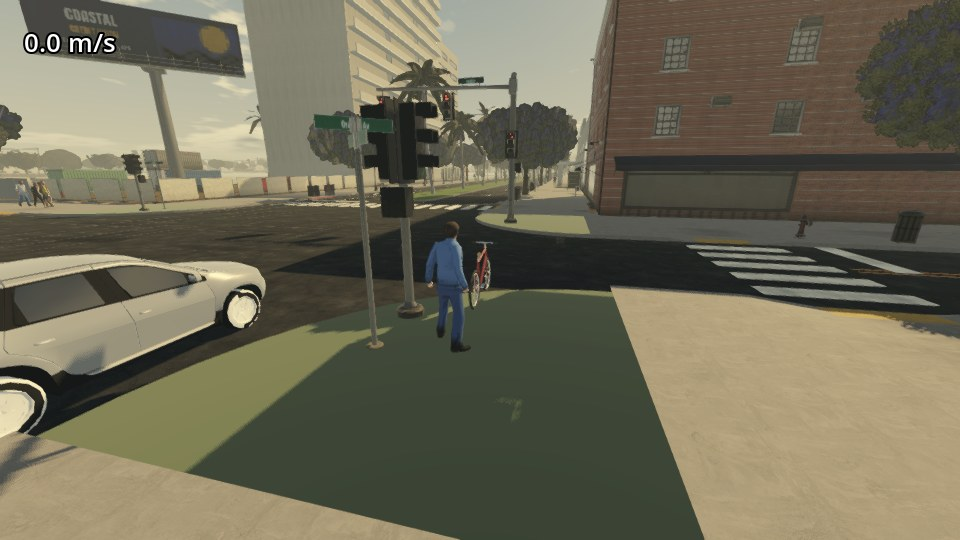
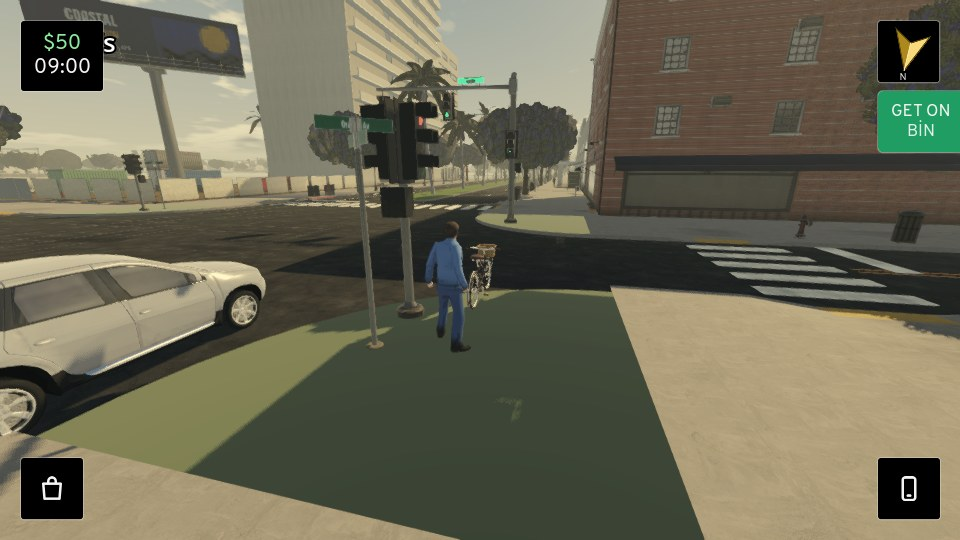
The Use button, C++, and the recheck of every ticked item (Yasin: "check for all your job lists completed items one by one"; "make the use button as big as phone and map boxes, vibrates and makes sound when used but doesnt expand like the other buttons"). THE RECHECK (20 Nov, every test in a window)

diff --git a/native/src/city_hud.cpp b/native/src/city_hud.cpp
@@ -5,6 +5,11 @@
 #include "city_player.h"
 #include "city_crowd.h"
 #include "city_traffic.h"
+#include "city_car.h"
+#include "city_bike.h"
+#include "car_models.h"
+
+#include <godot_cpp/classes/scene_tree.hpp>
 
 #include <godot_cpp/classes/input_event_mouse_motion.hpp>
 #include <godot_cpp/classes/input_event_screen_drag.hpp>
@@ -258,6 +263,7 @@ Rect2 CityHud::box_rect(int p_what) const {
 		case 0: return Rect2(sz.x - m - b, m, b, b);          // the arrow: top right
 		case 1: return Rect2(sz.x - m - b, sz.y - m - b, b, b);   // the phone: bottom right
 		case 2: return Rect2(m, sz.y - m - b, b, b);          // the inventory: bottom left
+		case 4: return Rect2(sz.x - m - b, m + b + 8.0f * k, b, b);   // the Use button: under the arrow box
 		default: return Rect2(m, m, b, b);                    // money and the clock: top left
 	}
 }
@@ -298,6 +304,14 @@ void CityHud::build() {
 	arrow = memnew(HudArrow); arrow->set_mouse_filter(Control::MOUSE_FILTER_IGNORE); add_child(arrow);   // (over the box, exactly its rectangle)
 	b_inv = box("plate");
 	{ TextureRect *ic = plate::icon_rect("buy", 36); ic->set_mouse_filter(Control::MOUSE_FILTER_IGNORE); ic->set_stretch_mode(TextureRect::STRETCH_KEEP_ASPECT_CENTERED); b_inv->add_child(ic); }
+	b_use = box("green");
+	{
+		VBoxContainer *v = memnew(VBoxContainer); v->set_alignment(BoxContainer::ALIGNMENT_CENTER); v->add_theme_constant_override("separation", -3); v->set_mouse_filter(Control::MOUSE_FILTER_IGNORE);
+		l_use_en = plate::label("GET IN", plate::FS_HELP, plate::TEXT, 800); l_use_en->set_horizontal_alignment(HORIZONTAL_ALIGNMENT_CENTER);
+		l_use_tr = plate::label(String::utf8("BİN"), plate::FS_HELP, Color(1, 1, 1, 0.85f), 600); l_use_tr->set_horizontal_alignment(HORIZONTAL_ALIGNMENT_CENTER);
+		v->add_child(l_use_en); v->add_child(l_use_tr); b_use->add_child(v);
+		b_use->set_visible(false);
+	}
 	b_phone = box("plate");
 	{ TextureRect *ic = plate::icon_rect("phone", 36); ic->set_mouse_filter(Control::MOUSE_FILTER_IGNORE); ic->set_stretch_mode(TextureRect::STRETCH_KEEP_ASPECT_CENTERED); b_phone->add_child(ic); }
 	// the panels that open out of their boxes
@@ -345,6 +359,7 @@ void CityHud::layout(const Vector2 &sz) {
 	last_sz = sz;
 	const float k = ui_k_of(sz);
 	auto put = [](Control *c, const Rect2 &r) { c->set_position(r.position); c->set_size(r.size); };
+	put(b_use, box_rect(4));
 	put(b_arrow, box_rect(0)); put(arrow, box_rect(0)); put(b_phone, box_rect(1)); put(b_inv, box_rect(2)); put(b_money, box_rect(3));
 	{ const Rect2 m = box_rect(3); put(needs_box, Rect2(m.position.x, m.get_end().y + 6.0f * k, m.size.x, 32.0f * k)); }
 	// the phone grows out of its button to a phone held up at the right; the inventory out of its box, up the left
@@ -372,6 +387,71 @@ void CityHud::touch(int p_what) {
 
 void CityHud::recentre() { feedback(); if (map) { map->follow = true; map->queue_redraw(); } }
 
+// What the Use button offers: the car or bicycle the player drives or rides (out / off), else the nearest one in reach
+// (a car: within 1.4 m of its side or ends; a bicycle: 2.5 m). The cars and bicycles of the world are the nodes of the
+// "vehicles" group (the start car and bicycle, and any the game places); the traffic's knocked cars are not.
+void CityHud::use_find(CityPlayer *pl) {
+	use_kind = 0; use_target = 0;
+	SceneTree *tr = get_tree();
+	if (!tr || !pl) return;
+	const TypedArray<Node> vs = tr->get_nodes_in_group("vehicles");
+	const bool on_foot = pl->is_visible_in_tree();
+	const Vector3 pp = pl->get_global_position();
+	float best = 1e9f;
+	for (int i = 0; i < vs.size(); i++) {
+		Node *n = Object::cast_to<Node>(vs[i]);
+		if (CityCar *c = Object::cast_to<CityCar>(n)) {
+			if (c->get_player()) { use_kind = 2; use_target = c->get_instance_id(); return; }
+			if (!on_foot || !c->is_visible_in_tree() || (c->get_collision_layer() & 16u)) continue;
+			const Transform3D t = c->get_global_transform();
+			const Vector3 lp = t.affine_inverse().xform(pp);
+			const cm::CarModel &m = cm::MODELS[std::min(std::max(c->get_model(), 0), cm::N_MODELS - 1)];
+			const float dx = std::max(std::fabs(lp.x) - m.half_w, 0.0f), dz = std::max(std::fabs(lp.z) - m.half_len, 0.0f);
+			const float d = std::sqrt(dx * dx + dz * dz);
+			if (d < 1.4f && std::fabs(lp.y) < 2.0f && d < best) { best = d; use_kind = 1; use_target = c->get_instance_id(); }
+		} else if (CityBike *b = Object::cast_to<CityBike>(n)) {
+			const int st = b->get_ride_state();
+			if (st == CityBike::ST_RIDE) { use_kind = 4; use_target = b->get_instance_id(); return; }
+			if (st != CityBike::ST_PARKED || !on_foot) continue;
+			const float d = b->get_global_position().distance_to(pp);
+			if (d < 2.5f && d < best) { best = d; use_kind = 3; use_target = b->get_instance_id(); }
+		}
+	}
+}
+
+void CityHud::use_do() {
+	if (use_kind == 0) return;
+	CityGame *g = CityGame::get();
+	CityPlayer *pl = player_id ? Object::cast_to<CityPlayer>(ObjectDB::get_instance(ObjectID(player_id))) : nullptr;
+	if (!pl && g) pl = Object::cast_to<CityPlayer>(ObjectDB::get_instance(ObjectID(g->get_player_id())));
+	Object *o = use_target ? ObjectDB::get_instance(ObjectID(use_target)) : nullptr;
+	if (!pl || !o) return;
+	feedback(); uses++;
+	CityTraffic *trf = traffic_id ? Object::cast_to<CityTraffic>(ObjectDB::get_instance(ObjectID(traffic_id))) : nullptr;
+	if (!trf && g) trf = Object::cast_to<CityTraffic>(ObjectDB::get_instance(ObjectID(g->get_traffic_id())));
+	if (CityCar *c = Object::cast_to<CityCar>(o)) {
+		const cm::CarModel &m = cm::MODELS[std::min(std::max(c->get_model(), 0), cm::N_MODELS - 1)];
+		if (use_kind == 1) {   // in: the wheel is his
+			pl->set_riding(true);
+			c->take_wheel(true);
+			if (trf) trf->set_player_car(c, m.half_len, m.half_w);
+		} else if (use_kind == 2) {   // out, beside the driver's door (the car's left), when it has (nearly) stopped
+			if (c->get_linear_velocity().length() > 2.5f) return;
+			const Transform3D t = c->get_global_transform();
+			const Vector3 side = t.basis.get_column(0).normalized();
+			c->take_wheel(false);
+			pl->set_riding(false);
+			pl->stand_at(t.origin + side * (m.half_w + 0.7f) + Vector3(0, 0.15f, 0), std::atan2(side.x, side.z));
+			pl->take_view();
+			if (trf) trf->set_player_car(nullptr, 0.0, 0.0);
+		}
+	} else if (CityBike *b = Object::cast_to<CityBike>(o)) {
+		if (use_kind == 3) { b->set_rider_player(pl); b->get_on(); }
+		else if (use_kind == 4) b->get_off();
+	}
+	use_scan = 0.0f;
+}
+
 String CityHud::get_money_text() const { return l_money ? l_money->get_text() : String(); }
 String CityHud::get_time_text() const { return l_time ? l_time->get_text() : String(); }
 
@@ -387,7 +467,27 @@ void CityHud::_process(double p_delta) {
 	CityPlayer *pl = player_id ? Object::cast_to<CityPlayer>(ObjectDB::get_instance(ObjectID(player_id))) : nullptr;
 	if (!pl && g) pl = Object::cast_to<CityPlayer>(ObjectDB::get_instance(ObjectID(g->get_player_id())));
 	const bool on_foot = pl && pl->is_visible_in_tree();
-	b_inv->set_visible(on_foot);   // (in a car or on the bike the lower left is the steering; the inventory is for on foot)
+	b_inv->set_visible(on_foot);
+	use_scan -= (float)p_delta;
+	if (use_scan <= 0.0f) {
+		use_scan = 0.1f;
+		const int was = use_kind;
+		use_find(pl);
+		if (use_kind != was || use_target != use_last) {
+			static const char *const EN[5] = { "", "GET IN", "GET OUT", "GET ON", "GET OFF" };
+			static const char *const TR[5] = { "", "BİN", "İN", "BİN", "İN" };
+			l_use_en->set_text(EN[use_kind]); l_use_tr->set_text(String::utf8(TR[use_kind]));
+			if ((use_kind == 1 || use_kind == 3) && use_target != use_last) Input::get_singleton()->vibrate_handheld(200);   // (the old spec: a new target in reach)
+			use_last = use_target;
+		}
+		b_use->set_visible(use_kind != 0 && open < 0);
+	}
+	{
+		Input *in = Input::get_singleton();
+		const bool e = in->is_key_pressed(KEY_E) || in->is_joy_button_pressed(0, JOY_BUTTON_X);
+		if (e && !e_was && open < 0) use_do();
+		e_was = e;
+	}   // (in a car or on the bike the lower left is the steering; the inventory is for on foot)
 	// money and the clock
 	if (g) {
 		l_money->set_text(String("$") + String::num_int64(g->get_money()));
@@ -437,6 +537,7 @@ void CityHud::_process(double p_delta) {
 	if (pl) {
 		pl->set_no_touch(4, box_rect(0)); pl->set_no_touch(5, box_rect(1)); pl->set_no_touch(6, b_inv->is_visible() ? box_rect(2) : Rect2());
 		pl->set_no_touch(7, open >= 0 ? Rect2(Vector2(), sz) : box_rect(3));
+		pl->set_no_touch(0, b_use->is_visible() ? box_rect(4) : Rect2());
 	}
 }
 
@@ -456,6 +557,7 @@ void CityHud::_input(const Ref<InputEvent> &p_event) {
 	}
 	if (!tap) return;
 	if (open >= 0) return;   // (an open panel: its own close button)
+	if (b_use->is_visible() && box_rect(4).has_point(p)) { use_do(); get_viewport()->set_input_as_handled(); return; }
 	for (int w = 0; w < 3; w++) {
 		if (w == 2 && !b_inv->is_visible()) continue;
 		if (box_rect(w).has_point(p)) { touch(w); get_viewport()->set_input_as_handled(); return; }
@@ -475,6 +577,9 @@ void CityHud::_bind_methods() {
 	ClassDB::bind_method(D_METHOD("box_rect", "what"), &CityHud::box_rect);
 	ClassDB::bind_method(D_METHOD("set_world", "crowd", "traffic"), &CityHud::set_world);
 	ClassDB::bind_method(D_METHOD("get_map"), &CityHud::get_map);
+	ClassDB::bind_method(D_METHOD("get_use_kind"), &CityHud::get_use_kind);
+	ClassDB::bind_method(D_METHOD("get_uses"), &CityHud::get_uses);
+	ClassDB::bind_method(D_METHOD("press_use"), &CityHud::press_use);
 }
 
 } // namespace godot

diff --git a/native/src/city_bike.cpp b/native/src/city_bike.cpp
@@ -288,7 +288,7 @@ void CityBike::zones(const Vector2 &sz, Rect2 r[4]) {
 	r[0] = Rect2(0, 0, sz.x * 0.5f, sz.y);
 	r[1] = plate::brake_rect(sz);
 	r[2] = plate::gas_rect(sz);
-	r[3] = plate::use_rect(sz);
+	r[3] = Rect2();   // (getting on and off: the HUD's Use button, CityHud)
 }
 
 void CityBike::read_player() {
@@ -302,9 +302,7 @@ void CityBike::read_player() {
 	if (std::fabs(jx) > 0.12f) st -= jx;
 	c_pedal = up; c_brake = down; c_steer = clampf(st, -1.0f, 1.0f);
 	c_sprint = (in->is_key_pressed(KEY_SHIFT) || in->is_joy_button_pressed(0, JOY_BUTTON_A) || t_sprint) ? 1.0f : 0.0f;
-	const bool e = in->is_key_pressed(KEY_E) || in->is_joy_button_pressed(0, JOY_BUTTON_X);
-	if (e && !e_was) want_toggle = true;
-	e_was = e;
+	(void)e_was;   // (E / the pad's X: the HUD's Use button)
 }
 
 void CityBike::_integrate_forces(PhysicsDirectBodyState3D *p_state) {
@@ -630,7 +628,7 @@ void CityBike::_process(double p_delta) {
 			Rect2 z[4]; zones(sz, z);
 			for (int k = 1; k < 4 && k < hud->get_child_count(); k++) {
 				Control *c = Object::cast_to<Control>(hud->get_child(k));
-				if (c) { c->set_position(z[k].position); c->set_size(z[k].size); }
+				if (c) { c->set_position(z[k].position); c->set_size(z[k].size); c->set_visible(k < 3); }
 			}
 			{   // pressed plates show the pressed look (raised_hi), as the old pedals did
 				bool tb = false, tp = false;
@@ -675,6 +673,7 @@ void CityBike::_bind_methods() {
 	ClassDB::bind_method(D_METHOD("get_off"), &CityBike::get_off);
 	ClassDB::bind_method(D_METHOD("set_controls", "pedal", "brake", "steer", "sprint"), &CityBike::set_controls);
 	ClassDB::bind_method(D_METHOD("get_state"), &CityBike::get_state);
+	ClassDB::bind_method(D_METHOD("get_ride_state"), &CityBike::get_ride_state);
 	ADD_PROPERTY(PropertyInfo(Variant::BOOL, "player"), "set_player", "get_player");
 	ADD_PROPERTY(PropertyInfo(Variant::BOOL, "chase_camera"), "set_chase_camera", "get_chase_camera");
 	ADD_PROPERTY(PropertyInfo(Variant::BOOL, "touch_hud"), "set_touch_hud", "get_touch_hud");

diff --git a/native/src/city_hud.h b/native/src/city_hud.h
@@ -85,6 +85,19 @@ class CityHud : public CanvasLayer {
 	GDCLASS(CityHud, CanvasLayer)
 
 	PanelContainer *b_money = nullptr, *b_arrow = nullptr, *b_inv = nullptr, *b_phone = nullptr;
+	// THE USE BUTTON (the old game's Use plate; Yasin: "make the use button as big as phone and map boxes, vibrates and
+	// makes sound when used but doesnt expand like the other buttons"): under the arrow box, green, shown only when there
+	// is something to do: GET IN a car / GET ON a bicycle within reach (a vibration when a new one comes in reach), GET
+	// OUT / GET OFF while driving or riding. A tap (or E): a tick, a vibration, done; nothing opens.
+	PanelContainer *b_use = nullptr;
+	Label *l_use_en = nullptr, *l_use_tr = nullptr;
+	int use_kind = 0;              // 0 nothing, 1 get in, 2 get out, 3 get on, 4 get off
+	uint64_t use_target = 0, use_last = 0;
+	float use_scan = 0.0f;
+	int uses = 0;
+	bool e_was = false;
+	void use_find(class CityPlayer *pl);
+	void use_do();
 	HudArrow *arrow = nullptr;
 	HudMap *map = nullptr;
 	uint64_t crowd_id = 0, traffic_id = 0;
@@ -122,6 +135,9 @@ public:
 	int get_open() const { return anim_dir >= 0 && open >= 0 && anim > 0.0f ? open : -1; }
 	float get_anim() const { return anim; }
 	int get_taps() const { return taps; }
+	int get_use_kind() const { return use_kind; }
+	int get_uses() const { return uses; }
+	void press_use() { use_do(); }
 	float get_arrow_angle() const { return arrow ? arrow->angle : 0.0f; }
 	bool get_arrow_objective() const { return arrow && arrow->objective; }
 	String get_money_text() const;

diff --git a/native/src/city_car.cpp b/native/src/city_car.cpp
@@ -314,6 +314,27 @@ Dictionary CityCar::get_damage() const {
 	return d;
 }
 
+void CityCar::take_wheel(bool p_on) {
+	if (!made) return;
+	player = p_on;
+	if (p_on) {
+		chase_camera = true;
+		if (!cam) {
+			cam = memnew(Camera3D);
+			cam->set_as_top_level(true);
+			cam->set_fov(62.0); cam->set_near(0.2); cam->set_far(1500.0);
+			add_child(cam);
+		}
+		cam_set = false;
+		cam->make_current();
+		c_handbrake = 0.0f; c_brake = 0.0f;
+	} else {
+		set_controls(0.0, 1.0, 0.0, 1.0, false);   // (left parked: brakes and handbrake on)
+		for (int i = 0; i < 16; i++) t_zone[i] = 0;
+		t_steer_id = -1; t_steer = 0.0f;
+	}
+}
+
 void CityCar::become(int p_model, int p_feel, const Color &p_paint) {
 	model = p_model; feel = p_feel; paint = p_paint;
 	if (made) fit();
@@ -556,6 +577,7 @@ void CityCar::_bind_methods() {
 	ClassDB::bind_method(D_METHOD("launch", "at", "velocity"), &CityCar::launch);
 	ClassDB::bind_method(D_METHOD("put_away", "where"), &CityCar::put_away);
 	ClassDB::bind_method(D_METHOD("hit", "dv"), &CityCar::hit);
+	ClassDB::bind_method(D_METHOD("take_wheel", "on"), &CityCar::take_wheel);
 	ClassDB::bind_method(D_METHOD("repair"), &CityCar::repair);
 	ClassDB::bind_method(D_METHOD("get_damage"), &CityCar::get_damage);
 	ADD_SIGNAL(MethodInfo("damaged", PropertyInfo(Variant::FLOAT, "severity"), PropertyInfo(Variant::FLOAT, "health")));

diff --git a/native/src/ui_plate.cpp b/native/src/ui_plate.cpp
@@ -234,7 +234,7 @@ Rect2 gas_rect(const Vector2 &sz) { return from_br(sz, 24, 24 + 76 + 8, 104, 144
 Rect2 brake_rect(const Vector2 &sz) { return from_br(sz, 24 + 104 + 8, 24 + 76 + 8, 120, 96); }
 Rect2 speed_rect(const Vector2 &sz) { const float k = ui_k(sz); return Rect2(24 * k, sz.y - (24 + 112) * k, 208 * k, 112 * k); }
 Rect2 top_right_box(const Vector2 &sz) { const float k = ui_k(sz); return Rect2(sz.x - (24 + 76) * k, 24 * k, 76 * k, 76 * k); }   // (Yasin: the arrow box, the phone button's size)
-Rect2 use_rect(const Vector2 &sz) { const float k = ui_k(sz); return Rect2(sz.x - (24 + 176) * k, (24 + 76 + 8) * k, 176 * k, 76 * k); }
+Rect2 use_rect(const Vector2 &sz) { const float k = ui_k(sz); return Rect2(sz.x - (24 + 76) * k, (24 + 76 + 8) * k, 76 * k, 76 * k); }   // (Yasin: "make the use button as big as phone and map boxes")
 
 } // namespace plate
 } // namespace godot

diff --git a/native/src/city_game_data.cpp b/native/src/city_game_data.cpp
@@ -483,6 +483,7 @@ void CityGame::place_start() {
 	Node3D *bike = Object::cast_to<Node3D>(ClassDB::instantiate("CityBike"));
 	if (bike && parent) {
 		bike->set_name("StartBike");
+		bike->add_to_group("vehicles");
 		bike->set("player", true);
 		bike->set("touch_hud", true);
 		parent->add_child(bike);
@@ -493,6 +494,7 @@ void CityGame::place_start() {
 	const Vector3 car_at = at + side * (hw + 1.35f) - f * 1.5f + Vector3(0, 0.1f, 0);
 	if (car && parent) {
 		car->set_name("StartCar");
+		car->add_to_group("vehicles");
 		car->set("model", 2);
 		parent->add_child(car);
 		car->set_global_transform(Transform3D(Basis(Vector3(0, 1, 0), yaw), car_at));

diff --git a/native/src/city_car.h b/native/src/city_car.h
@@ -115,6 +115,8 @@ public:
 	void set_paint(const Color &p_c) { paint = p_c; }
 	Color get_paint() const { return paint; }
 	void set_player(bool p_on) { player = p_on; }
+	// the player gets in (the wheel, the pedals and the chase camera are his) / out (the handbrake on, its camera off)
+	void take_wheel(bool p_on);
 	bool get_player() const { return player; }
 	void set_chase_camera(bool p_on) { chase_camera = p_on; }
 	bool get_chase_camera() const { return chase_camera; }

diff --git a/native/src/city_bike.h b/native/src/city_bike.h
@@ -163,6 +163,8 @@ public:
 	void set_controls(double p_pedal, double p_brake, double p_steer, double p_sprint);
 	// speed, lean, steer, state, damage, bent wheel, chain off, wheels on the ground, the view's wobble, the rider's body...
 	Dictionary get_state() const;
+	int get_ride_state() const { return state; }   // ST_PARKED .. ST_THROWN
+	float get_speed() const { return speed; }
 };
 
 } // namespace godot

diff --git a/docs/GAME_PORT_BOARD.md b/docs/GAME_PORT_BOARD.md
@@ -88,7 +88,7 @@ RESULT PASS, and commit and push after every item. The old game is the checkout 
       tap is detected from the GYRO, the ACCELEROMETER and the MICROPHONE together (Yasin): all three must agree.
 6e. [x] (19 Nov, tests/game/test_save_picture.gd in a real window; the main thread reads the frame in 6.7 ms on the PC, the shrink and jpg on a thread; NOT measured on the phone) THE SAVED GAME'S PICTURE: the menu and the loading screen show where the save left off (taken from the game),
       Continue fades from it into that place seamlessly; black when there is no save.
-7. [x] (20 Nov, tests/game/test_hud.gd in a window RESULT PASS; the phone shows a place for its map: item 8; NOT on the phone: the vibration, the touch) HUD (Yasin's layout: top right a box the size of the phone icon with a "3D-looking" flat arrowhead: GREEN pointing
+7. [x] (20 Nov, tests/game/test_hud.gd in a window RESULT PASS; REOPENED 20 Nov in the recheck: the Use plate promised in 6d was missing (no way to get into a car on the phone); built the same day: the Use button, the phone button's size under the arrow box (GET IN / GET OUT a car, GET ON / GET OFF the bike; a tick and a vibration, nothing opens; Yasin), tests/game/test_start.gd RESULT PASS; the phone shows a place for its map: item 8; NOT on the phone: the vibration, the touch) HUD (Yasin's layout: top right a box the size of the phone icon with a "3D-looking" flat arrowhead: GREEN pointing
       to the mission, GOLDEN YELLOW pointing north when there is none; tapping it opens the phone's full map; top left
       money and time in a box of the same size; HEALTH AND NEEDS integrated but INACTIVE for now)
       (Yasin, 19 Nov: "make sure the expansions happens animated along several frames for both the map and the phone, with
@@ -106,7 +106,7 @@ RESULT PASS, and commit and push after every item. The old game is the checkout 
 15. [ ] What these need that is not listed: char creator / wardrobe (core/char_creator.gd, ui/wardrobe), story chapters
       (story/chapters, core/story.gd), i18n (core/i18n.gd, strings.csv): ask Yasin before porting these.
 
-6g. [~] (CARS done 19 Nov: car-tex r3 of the assets branch, 8e579333a: the 12 models' new meshes, trim sheet and per-car normal / AO maps, in the traffic's near and light models (traffic_car.gdshader map_mode 2 / 1), the far shape (volt_x's far colour) and the player's car (car_paint.gdshader); tests/traffic/test_car_damage.gd. BIKES: not on the branch yet, Yasin: "bike is coming wait for it i forgot to push") NEW CARS AND BIKES (Yasin, 19 Nov: "big news, we got new cars and bikes, replace the games cars, players car and
+6g. [x] (CARS done 19 Nov: car-tex r3 of the assets branch, 8e579333a: the 12 models' new meshes, trim sheet and per-car normal / AO maps, in the traffic's near and light models (traffic_car.gdshader map_mode 2 / 1), the far shape (volt_x's far colour) and the player's car (car_paint.gdshader); tests/traffic/test_car_damage.gd. BIKES done 20 Nov: the beach cruiser (assets branch 82d711276) on the player's bike (its rig: wheels, crank, pedals, bars turning) and the traffic's cyclists (its mid tier); the rider tuned by Yasin (hands up 10 cm and back 5 cm, the rider up 10 cm, the pedals following the feet) and APPROVED ("okay now its much better"): LEAVE THE BIKE AS IT IS. Not yet: the far riders' poses rebaked for the cruiser) NEW CARS AND BIKES (Yasin, 19 Nov: "big news, we got new cars and bikes, replace the games cars, players car and
       npc bikes and player bikes with these here https://github.com/yasinyigitbas-max/coronado-source/tree/assets after
       save load"): the traffic's cars, the player's car, the cyclists' bikes and the player's bike from the assets branch.
 
@@ -124,6 +124,10 @@ RESULT PASS, and commit and push after every item. The old game is the checkout 
 ## NOT DONE, kept here for later.
 
 ## Found, to trace
+- tests/game/test_start.gd: one run in the 20 Nov recheck found no ground under the player 5 s after the start (and the
+  car 5.5 m off); the next three runs passed (at 960x540 and 1152x648). A streaming / collision timing to trace.
+- Not done with the Use button: getting into and out of the car has no animation yet (the bike has Sitting_Enter / Exit);
+  stand_at is not bound for scripts.
 - tests/traffic/test_bike_hit.gd: one run in two (19 Nov) the hit cyclist's hips went 19 m up (the other run 1.06 m):
   a rare launch of the thrown rider; not deterministic between runs. Trace the one rider when it happens.
 
